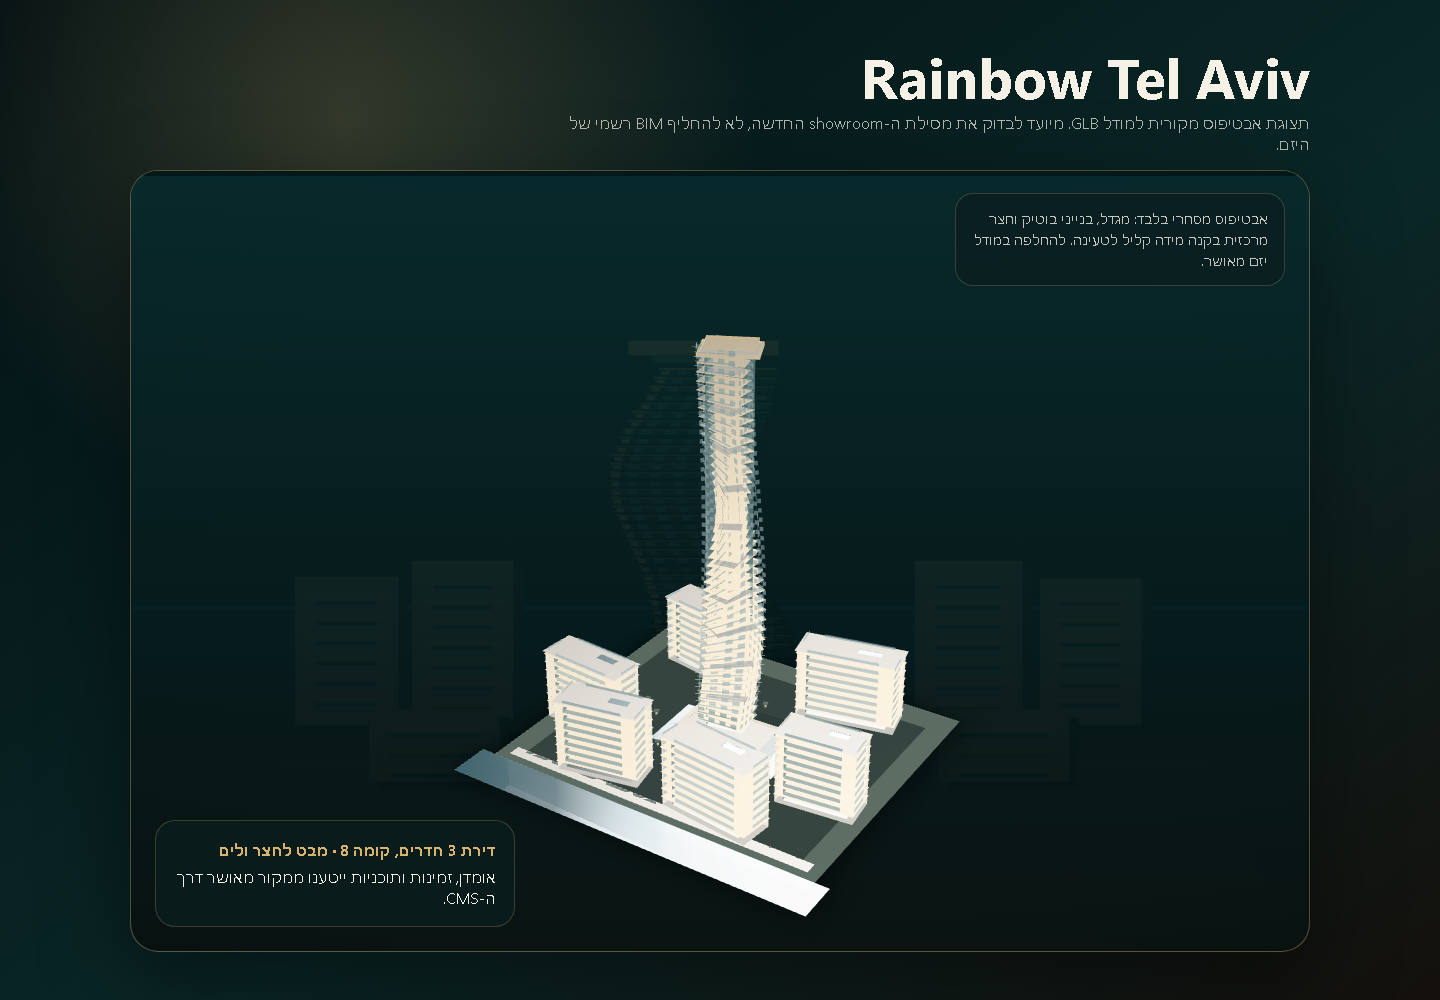
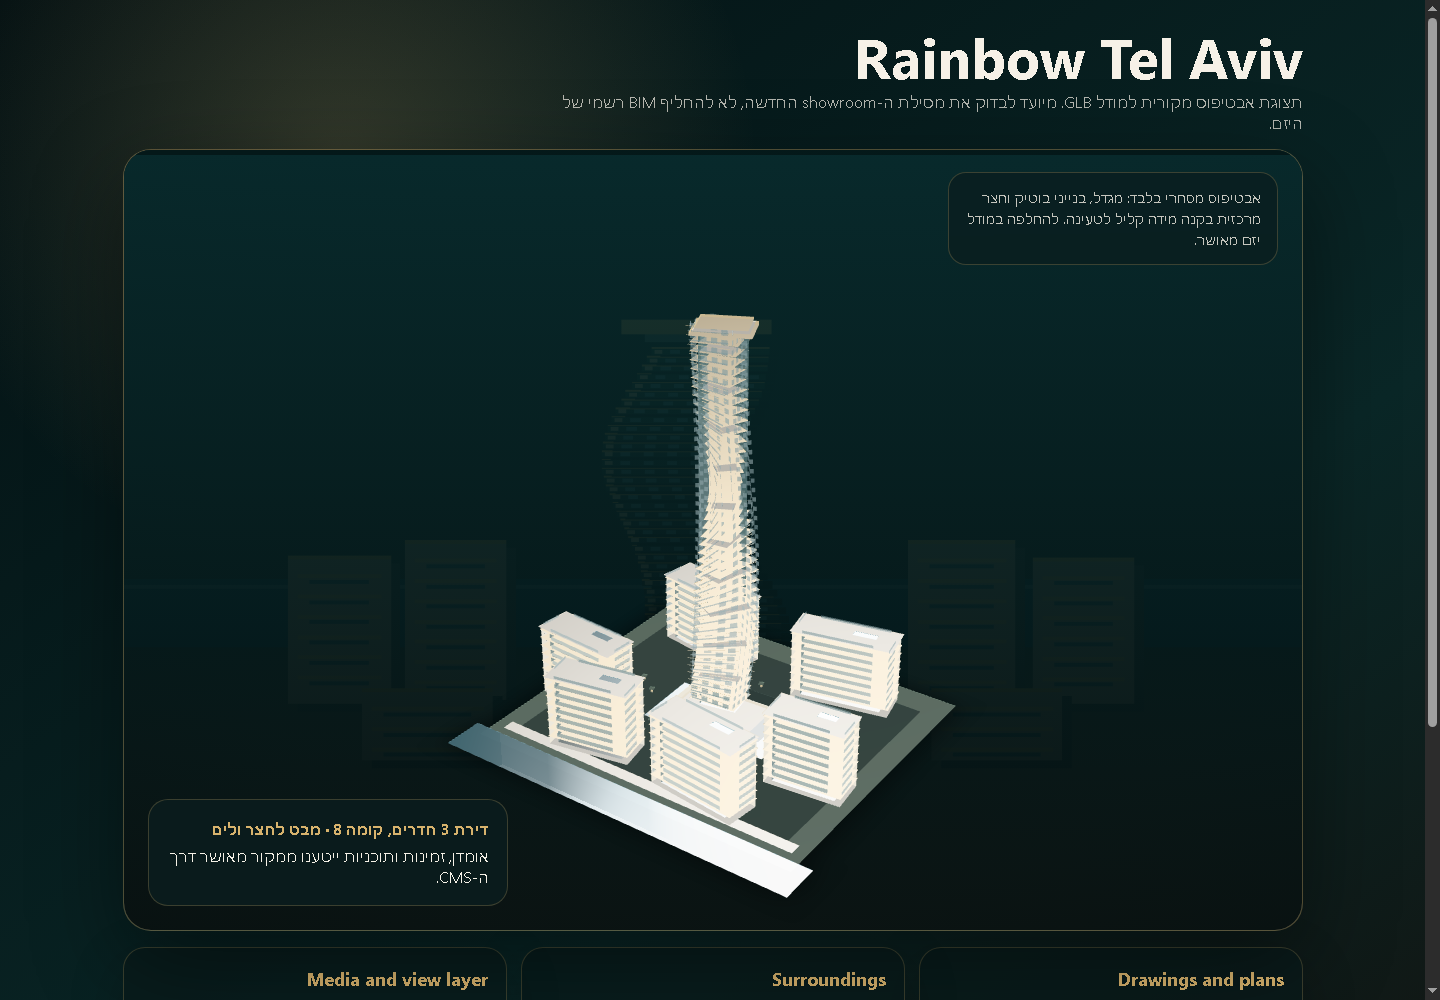
test: verify Rainbow material preview layers

diff --git a/docs/previews/rainbow-model-viewer-prototype.html b/docs/previews/rainbow-model-viewer-prototype.html
@@ -103,6 +103,55 @@
       backdrop-filter: blur(18px);
     }
     .readout strong { color: var(--gold); display: block; margin-bottom: 6px; }
+    .insights {
+      display: grid;
+      grid-template-columns: repeat(3, minmax(0, 1fr));
+      gap: 14px;
+    }
+    .insight-card {
+      min-height: 220px;
+      padding: 18px;
+      border: 1px solid rgba(216, 179, 109, .24);
+      border-radius: 22px;
+      background: rgba(8, 26, 27, .72);
+      box-shadow: 0 18px 54px rgba(0,0,0,.24);
+    }
+    .insight-card h2 {
+      margin: 0 0 12px;
+      font-size: 18px;
+      color: var(--gold);
+    }
+    .preview-list {
+      display: grid;
+      gap: 9px;
+      margin: 0;
+      padding: 0;
+      list-style: none;
+    }
+    .preview-list li,
+    .preview-chip {
+      min-height: 44px;
+      display: flex;
+      align-items: center;
+      justify-content: space-between;
+      gap: 10px;
+      padding: 10px 12px;
+      border: 1px solid rgba(246, 241, 231, .14);
+      border-radius: 14px;
+      background: rgba(255,255,255,.045);
+      color: rgba(246, 241, 231, .78);
+      font-size: 13px;
+      line-height: 1.35;
+    }
+    .preview-chip[data-state="pending"] {
+      color: rgba(246, 241, 231, .5);
+      border-style: dashed;
+    }
+    .preview-chip b,
+    .preview-list b {
+      color: var(--ink);
+      font-weight: 750;
+    }
     @media (max-width: 760px) {
       body { padding: 12px; }
       header { display: block; }
@@ -110,6 +159,7 @@
       .note, .readout { position: static; width: auto; margin: 12px; }
       .stage { display: flex; flex-direction: column; }
       model-viewer { flex: 1; min-height: 430px; }
+      .insights { grid-template-columns: 1fr; }
     }
   </style>
 </head>
@@ -147,6 +197,21 @@
       גררו לסיבוב, לחצו על קומה כדי לדמות בחירת דירה.
     </div>
   </section>
+  <section class="insights" aria-label="Project showroom data layers">
+    <article class="insight-card">
+      <h2>Drawings and plans</h2>
+      <ul class="preview-list" id="drawings-panel" data-preview-drawings></ul>
+    </article>
+    <article class="insight-card">
+      <h2>Surroundings</h2>
+      <ul class="preview-list" id="environment-panel" data-preview-environment></ul>
+    </article>
+    <article class="insight-card">
+      <h2>Media and view layer</h2>
+      <div class="preview-list" id="media-panel" data-preview-media></div>
+      <p id="view-layer-panel" data-preview-view-layer></p>
+    </article>
+  </section>
 </main>
 <script>
   const units = {
@@ -163,6 +228,78 @@
       readout.innerHTML = `<strong>${units[button.dataset.unit]}</strong>אומדן, זמינות ותוכניות ייטענו ממקור מאושר דרך ה-CMS.`;
     });
   });
+  const assetBase = "/assets/projects/rainbow-tel-aviv";
+  const loadJson = async (name) => {
+    const response = await fetch(`${assetBase}/${name}`, { cache: "no-store" });
+    if (!response.ok) throw new Error(`${name} HTTP ${response.status}`);
+    return response.json();
+  };
+  const appendItem = (container, title, detail, attrs = {}) => {
+    const item = document.createElement(container.tagName === "UL" ? "li" : "div");
+    item.className = "preview-chip";
+    Object.entries(attrs).forEach(([key, value]) => item.setAttribute(key, value));
+    const strong = document.createElement("b");
+    strong.textContent = title;
+    const span = document.createElement("span");
+    span.textContent = detail;
+    item.append(strong, span);
+    container.appendChild(item);
+    return item;
+  };
+  const renderPreviewData = async () => {
+    try {
+      const [drawings, environment, viewLayer, meta] = await Promise.all([
+        loadJson("drawings.json"),
+        loadJson("environment.json"),
+        loadJson("view-layer-config.json"),
+        loadJson("project-meta-example.json")
+      ]);
+
+      const drawingsPanel = document.getElementById("drawings-panel");
+      (drawings.items || []).slice(0, 5).forEach((item) => {
+        appendItem(drawingsPanel, item.label || item.type || "Drawing", item.type || "plan", {
+          "data-preview-drawing": item.type || "drawing"
+        });
+      });
+
+      const environmentPanel = document.getElementById("environment-panel");
+      (environment.layers || [])
+        .flatMap((layer) => (layer.items || []).slice(0, 2).map((item) => ({ layer, item })))
+        .slice(0, 6)
+        .forEach(({ layer, item }) => {
+          appendItem(environmentPanel, item.name || item.label || item.id || "Place", layer.label || layer.id || "environment", {
+            "data-preview-environment-item": layer.id || "environment"
+          });
+        });
+
+      const mediaPanel = document.getElementById("media-panel");
+      [
+        ["Video", meta.project_3d_video_url],
+        ["Tour", meta.project_3d_tour_url],
+        ["Cesium", meta.project_3d_cesium_tiles_url]
+      ].forEach(([label, url]) => {
+        appendItem(mediaPanel, label, url ? "approved URL ready" : "pending official material", {
+          "data-preview-media-slot": label.toLowerCase(),
+          "data-state": url ? "ready" : "pending"
+        });
+      });
+
+      const viewPanel = document.getElementById("view-layer-panel");
+      const mapboxUserOpened = viewLayer.providers?.mapbox?.load_policy === "user_open_only";
+      const cesiumUserOpened = viewLayer.providers?.cesium?.load_policy === "user_open_only";
+      const lazyCost = viewLayer.cost_controls?.lazy_on_user_gesture === true && viewLayer.cost_controls?.instantiate_on_page_load === false;
+      viewPanel.dataset.userOpenOnly = String(mapboxUserOpened && cesiumUserOpened && lazyCost);
+      viewPanel.textContent = mapboxUserOpened && lazyCost
+        ? "View layer is lazy and user-opened; Cesium slot remains pending approved tiles."
+        : "View layer policy needs review before public use.";
+      window.__rainbowPreviewDataReady = true;
+    } catch (error) {
+      window.__rainbowPreviewDataReady = false;
+      window.__rainbowPreviewErrors = window.__rainbowPreviewErrors || [];
+      window.__rainbowPreviewErrors.push(String(error.message || error).slice(0, 160));
+    }
+  };
+  renderPreviewData();
 </script>
 </body>
 </html>

diff --git a/skills/skill-3d-model-pipeline.md b/skills/skill-3d-model-pipeline.md
@@ -190,7 +190,8 @@ Before shipping a project:
 - Before live CMS wire-in, run the local model preview browser gate:
   `node scripts/check-rainbow-prototype-preview.mjs` (or the project-specific equivalent). It must
   prove the GLB loads at 1440px and 390px, hotspots exist, hotspot tap/click changes the unit
-  readout, tap targets are at least 44px, and screenshots are captured.
+  readout, tap targets are at least 44px, drawings/environment/media slots render from the project
+  JSON, Mapbox/Cesium view policy remains user-opened/lazy, and screenshots are captured.
 - Confirm the local model preview screenshot shows `loaded:true` / actual GLB visible, not only the
   poster image.
 - Confirm the page still has one H1 and the article body remains readable below the showroom.

diff --git a/docs/qa/2026-06-14-rainbow-glb-cms-wiring-runbook.md b/docs/qa/2026-06-14-rainbow-glb-cms-wiring-runbook.md
@@ -279,6 +279,10 @@ headless Chrome or Edge, and checks desktop 1440px plus mobile 390px:
 - six hotspots present,
 - visible hotspot targets at least 44px,
 - hotspot click updates the readout,
+- drawings and plans panel renders from `drawings.json`,
+- surroundings panel renders from `environment.json`,
+- media/view slots render from `project-meta-example.json` and remain honest when pending,
+- view-layer policy is user-opened/lazy according to `view-layer-config.json`,
 - no browser errors or visible fatal text.
 
 Current evidence:
